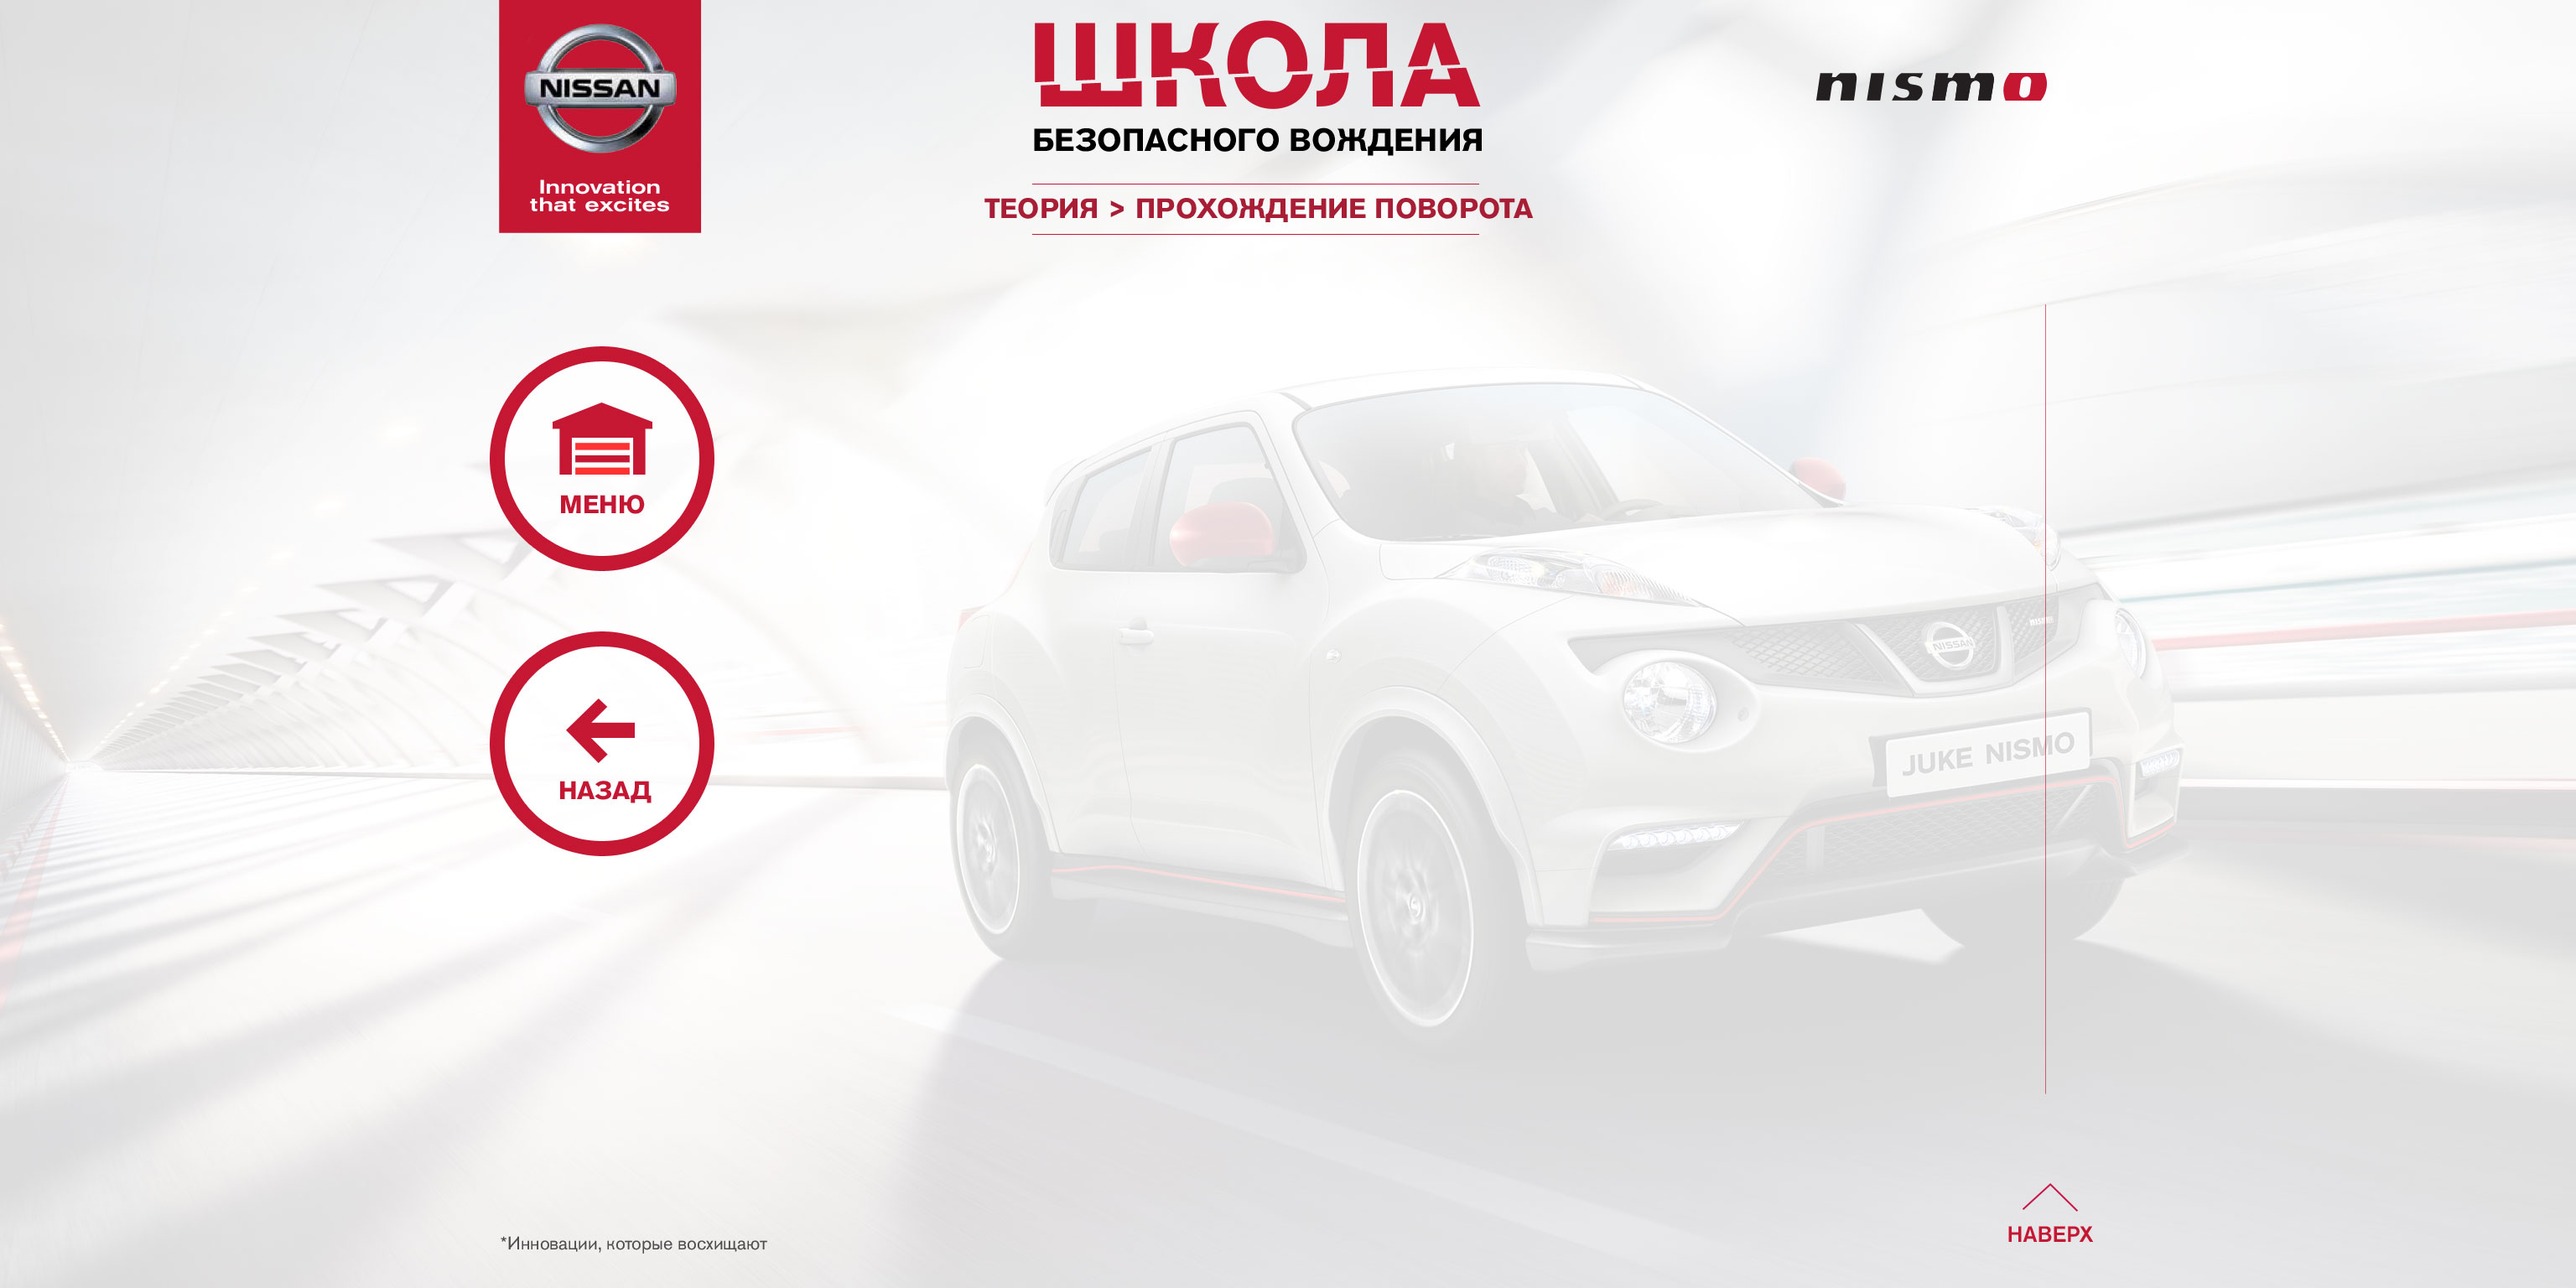
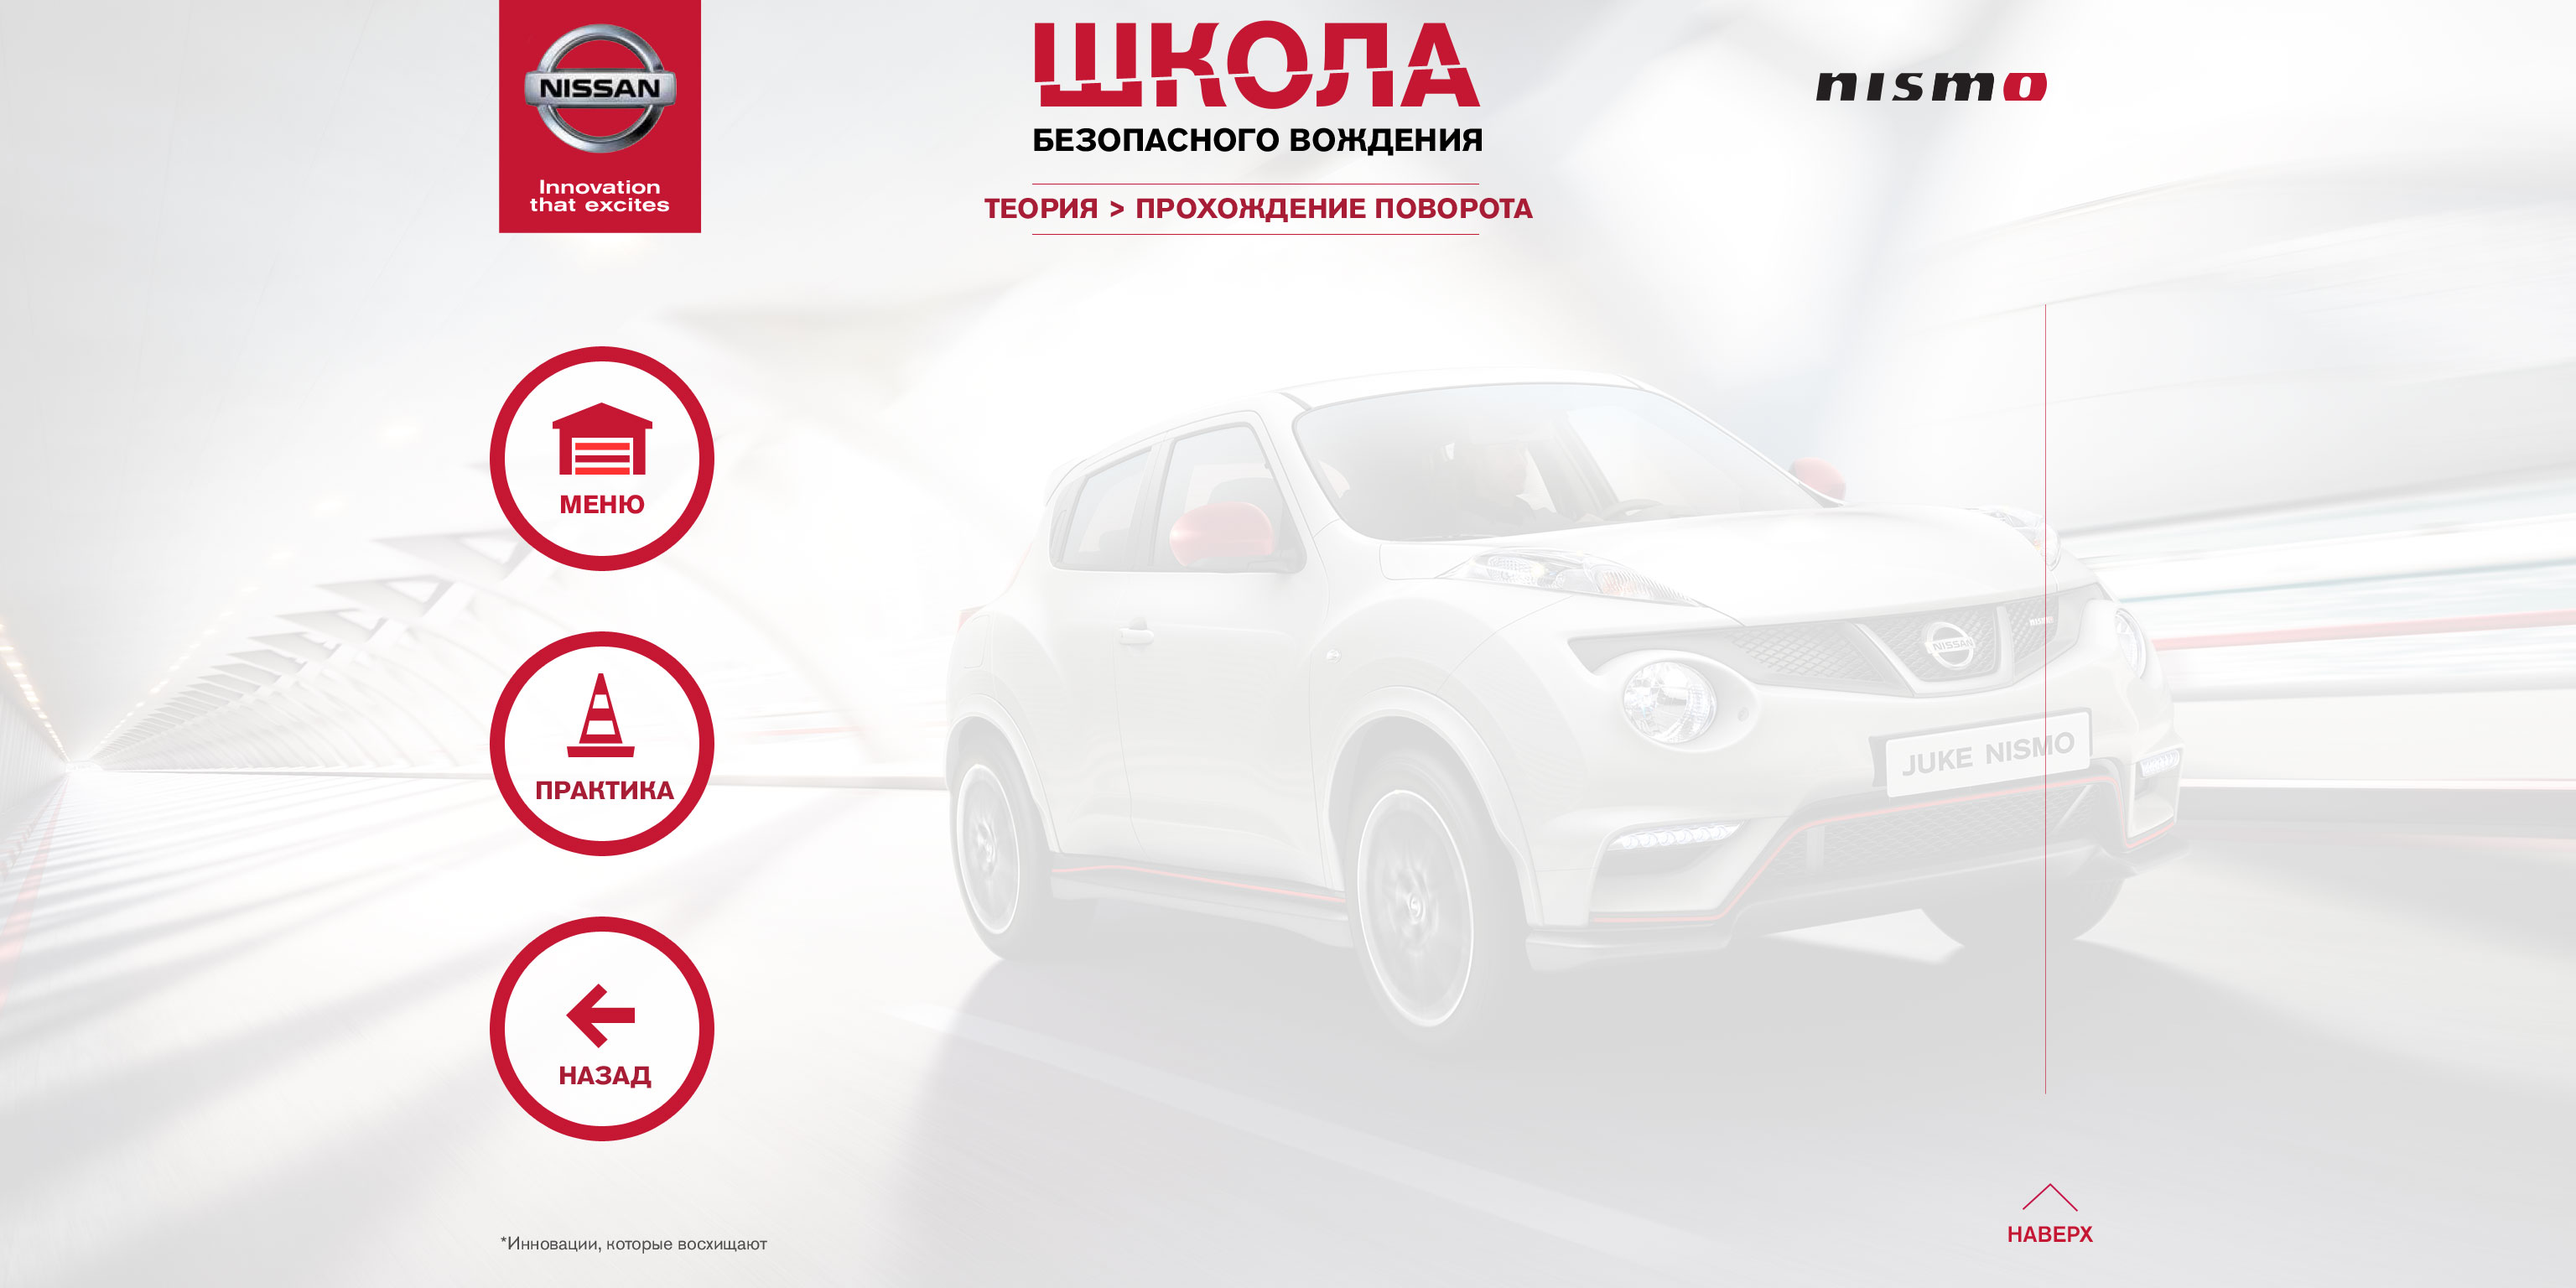
add button to practice from theory screen

Changed region(s): [[0.1875, 0.6875, 0.2812, 0.9062], [0.1875, 0.5312, 0.2812, 0.625]]

diff --git a/src/theory.js b/src/theory.js
@@ -21,6 +21,17 @@ var Theory = cc.Layer.extend({
 		        	 w: 270,
 		        	 h: 270,
 		        	 click: function () {
+		        		 if (typeof(app.theory.onPractice) == 'function') {
+		        			 app.theory.onPractice();
+		        		 }
+		        	 } 
+		         },
+		         {
+		        	 x: 3072/2 -953,
+		        	 y: 1536 - 1090 - 270,
+		        	 w: 270,
+		        	 h: 270,
+		        	 click: function () {
 		        		 if (typeof(app.theory.onBack) == 'function') {
 		        			 app.theory.onBack();
 		        		 }
@@ -70,6 +81,7 @@ var Theory = cc.Layer.extend({
 		this.menuTheory.back = options.back; 
 	  }	
 	  this.onBack = options.onBack;
+	  this.onPractice = options.onPractice;
 	  app.renderMenu(this, this.menuTheory, true);
 	  // Create the scrollview
 	  var maxH = 10000;

diff --git a/src/slalom.js b/src/slalom.js
@@ -73,7 +73,15 @@ var Slalom = cc.Layer.extend({
 		        			 url: 'res/data/theory_slalom.html',   
 		        			 onBack: function () {
 		        				 app.runStage(new Slalom());
-		        			 }  
+		        			 },
+		        			 onPractice: function () {
+		        				   app.slalom = new Slalom();
+		        				   app.clearStage();
+		        				   app.game.stage.addChild(app.slalom, 10);
+		        				   cc.loader.loadJson("res/data/slalom.json", function(error, data) {
+		  		        			 app.slalom.game(data[0]);  
+		  		        		   });
+		        			 }   
 		        		 });
 		        	 }	
 		         },

diff --git a/src/roll.js b/src/roll.js
@@ -27,7 +27,15 @@ var Roll = cc.Layer.extend({
 	        			   url: 'res/data/theory_roll.html',   
 	        			   onBack: function () {
 	        				   app.runStage(new Roll());
-	        			   }  
+	        			   },
+	        			   onPractice: function () {
+	        				   app.roll = new Roll();
+	        				   app.clearStage();
+	        				   app.game.stage.addChild(app.roll, 10);
+	        				   cc.loader.loadJson("res/data/roll.json", function(error, data) {
+	        					   app.roll.game(data[0]);  
+	        				   });
+	        			   }   
 	        		   });
 	        	   }	
 	           },

diff --git a/src/accelerator.js b/src/accelerator.js
@@ -26,7 +26,13 @@ var Accelerator = cc.Layer.extend({
 				onBack: function () {
 				  app.accelerator = new Accelerator();
 				  app.runStage(app.accelerator);
-				}  
+				},
+				onPractice: function () {
+				  app.accelerator = new Accelerator();
+				  app.clearStage();
+				  app.game.stage.addChild(app.accelerator, 10);
+				  app.accelerator.game();
+				}
 			  });
 			}	
 		},

diff --git a/src/turn.js b/src/turn.js
@@ -25,6 +25,12 @@ var Turn = cc.Layer.extend({
 	    			url: 'res/data/theory_turn.html',   
 	    			onBack: function () {
 	    				app.runStage(new Turn());
+	    			},
+	    			onPractice: function () {
+	    				app.turn = new Turn();
+	    				app.clearStage();
+	    				app.game.stage.addChild(app.turn, 10);
+	    				app.turn.choose();
 	    			}  
 	    		});
 	    	}

diff --git a/src/video.js b/src/video.js
@@ -121,7 +121,7 @@ var Video = cc.Layer.extend({
 			   //*/
 			   
 			   var text = new cc.LabelTTF(
-			      videos[i].title,
+			      (i+1) + ' - ' + videos[i].title,
 			      'res/fonts/nissanagmed.ttf',
 			      33
 			   );
